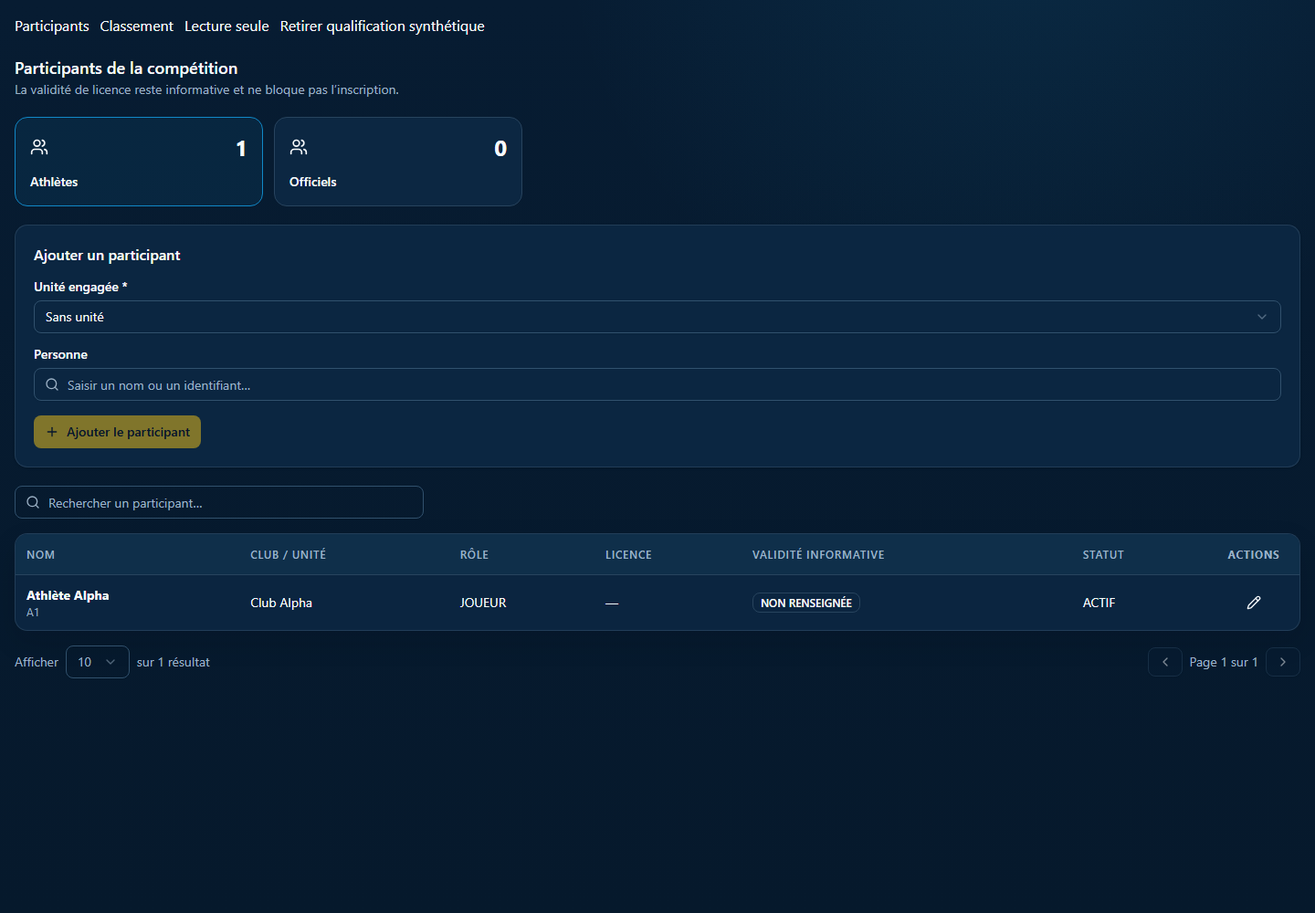
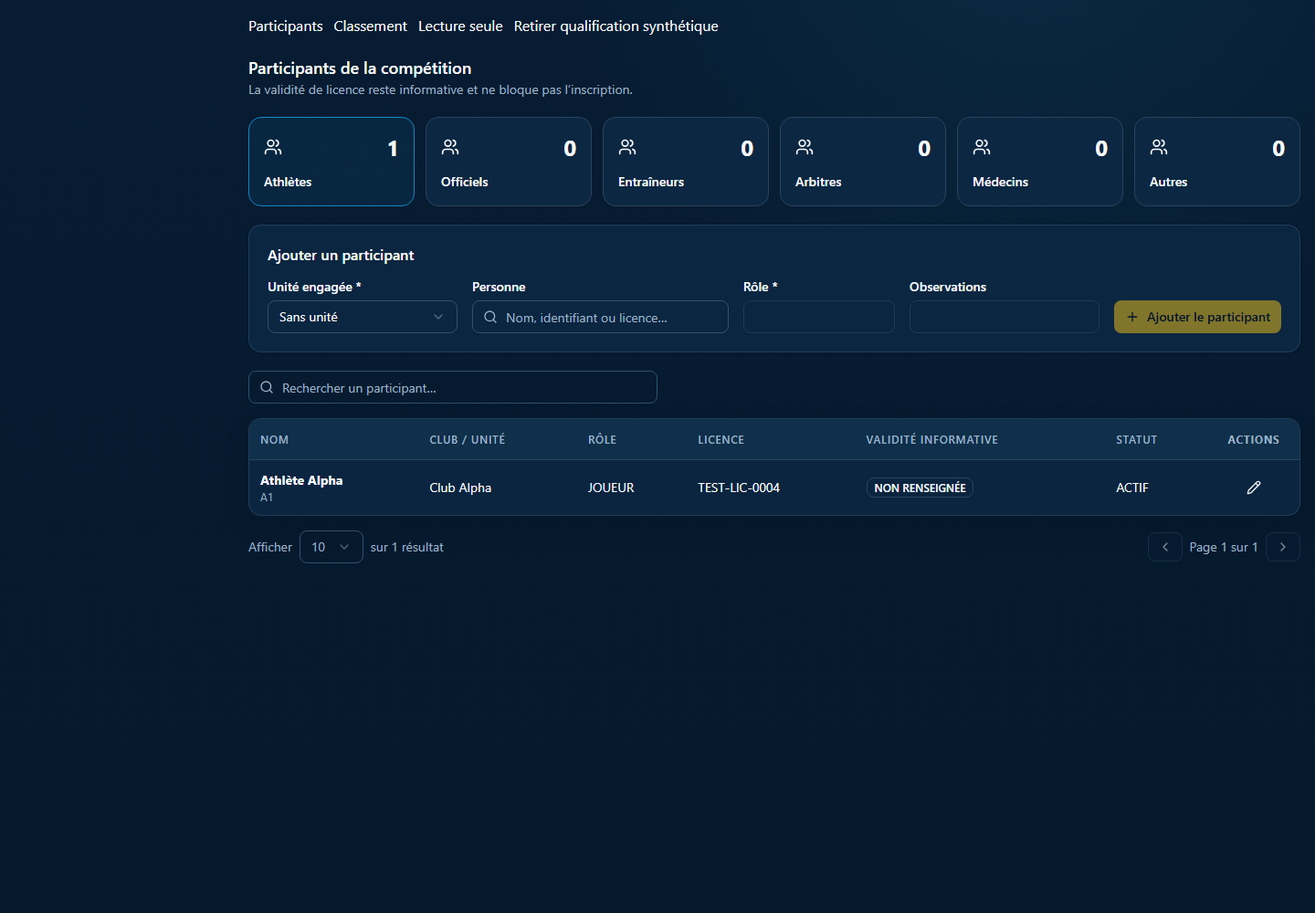
fix: resolve competition athletes from active affiliations

diff --git a/components/competitions/competition-people-manager.tsx b/components/competitions/competition-people-manager.tsx
@@ -25,7 +25,7 @@ export function CompetitionPeopleManager({ competitionId, closed, unitLabels, op
   const selected = actors.get(typeId+":"+(form.id_acteur || "")), athlete = /ATHLETE|JOUEUR/.test((types.find(item=>item.id===typeId)?.label || "").normalize("NFD").replace(/[\u0300-\u036f]/g,"").toUpperCase())
   const rows: Person[] = records.filter(row => clean(row.id_type_acteur) === typeId).map(row => {const actor=actors.get(typeId+":"+clean(row.id_acteur));return {id:clean(row.id_intervenant_competition),actorId:clean(row.id_acteur),typeId,name:actor?.label || clean(row.id_acteur),role:clean(row.role_participant),unitId:clean(row.id_unite_competition),unit:unitLabels[clean(row.id_unite_competition)] || "Sans unité",licence:actor?.licenceNumber || "Non renseignée",validity:actor?.licenceStatus || "À vérifier",observations:clean(row.observations),status:clean(row.statut)}})
   const candidates = options.filter(item => item.typeId === typeId && (!athlete || units.some(unit => clean(unit.statut)==="ACTIF" && (clean(unit.id_type_unite_competition)==="TUC005" || clean(unit.id_type_unite_competition)==="TUC004" && clean(unit.id_club)===item.clubId) && (!form.id_unite_competition || clean(unit.id_unite_competition)===form.id_unite_competition))) && !records.some(row => clean(row.id_intervenant_competition)!==editing && clean(row.id_type_acteur)===typeId && clean(row.id_acteur)===item.id && clean(row.id_unite_competition)===(form.id_unite_competition || "") && clean(row.statut)==="ACTIF"))
-  const matches = query.trim() ? candidates.filter(item => (item.label+" "+item.id).toLocaleLowerCase("fr").includes(query.trim().toLocaleLowerCase("fr"))).slice(0,20) : []
+  const matches = query.trim() ? candidates.filter(item => (item.label+" "+item.id+" "+item.licenceNumber).toLocaleLowerCase("fr").includes(query.trim().toLocaleLowerCase("fr"))).slice(0,20) : []
   const reset = () => {setForm({});setEditing("");setQuery("");setErrors({});setMessage("")}
   const selectType = (id:string) => {if(pending)return;setTypeId(id);reset()}
   const edit = (row:Person) => {setEditing(row.id);setForm({id_acteur:row.actorId,id_unite_competition:row.unitId,role_participant:row.role,observations:row.observations});setQuery(row.name);setErrors({});setMessage("")}
@@ -35,11 +35,18 @@ export function CompetitionPeopleManager({ competitionId, closed, unitLabels, op
   }
   const choiceUnits=units.filter(unit=>clean(unit.statut)==="ACTIF" || editing && clean(unit.id_unite_competition)===form.id_unite_competition)
   return <section className="space-y-5" aria-label="Participants de la compétition"><div><h2 className="text-lg font-semibold">Participants de la compétition</h2><p className="text-sm text-muted-foreground">La validité de licence reste informative et ne bloque pas l’inscription.</p></div>{error && <p role="alert" className="rounded-lg border border-destructive/30 p-3 text-destructive">{error}</p>}
-    <div className="grid grid-cols-2 gap-3 sm:grid-cols-3 xl:grid-cols-5">{types.map(type=><button key={type.id} type="button" disabled={pending} onClick={()=>selectType(type.id)} className={'rounded-xl border p-4 text-left '+(typeId===type.id?'border-primary bg-primary/10':'bg-card hover:bg-muted/50')}><div className="flex items-center justify-between"><Users className="size-5"/><span className="text-2xl font-bold">{records.filter(row=>clean(row.id_type_acteur)===type.id).length}</span></div><p className="mt-3 text-sm font-medium">{type.label}</p></button>)}</div>
-    {!closed && !error && <Card className="py-5 shadow-sm"><CardContent className="space-y-4 px-5"><h3 className="font-semibold">{editing?'Modifier un participant':'Ajouter un participant'}</h3><form onSubmit={submit} className="space-y-4"><fieldset disabled={pending} className="space-y-4"><div className="space-y-2"><Label htmlFor="person-unit">Unité engagée{athlete?' *':' (facultatif)'}</Label><Select value={form.id_unite_competition || '__none'} onValueChange={value=>{setForm(current=>({...current,id_unite_competition:value==='__none'?'':value,...(!editing?{id_acteur:''}:{})}));if(!editing)setQuery('')}}><SelectTrigger id="person-unit" className="w-full"><SelectValue placeholder="Choisir une unité"/></SelectTrigger><SelectContent><SelectItem value="__none">Sans unité</SelectItem>{choiceUnits.map(unit=><SelectItem key={clean(unit.id_unite_competition)} value={clean(unit.id_unite_competition)}>{unitLabels[clean(unit.id_unite_competition)] || clean(unit.id_unite_competition)}</SelectItem>)}</SelectContent></Select>{errors.id_unite_competition && <p className="text-sm text-destructive">{errors.id_unite_competition}</p>}</div>
-      <div className="space-y-2"><Label htmlFor="person-search">Personne</Label><div className="relative"><Search className="absolute left-3 top-2.5 size-4 text-muted-foreground"/><Input id="person-search" value={query} disabled={Boolean(editing)} className="pl-9" placeholder="Saisir un nom ou un identifiant…" onChange={event=>{setQuery(event.target.value);setForm(current=>({...current,id_acteur:''}))}}/></div>{query && !selected && <div className="max-h-64 overflow-y-auto rounded-lg border">{matches.length?matches.map(item=><button key={item.typeId+':'+item.id} type="button" onClick={()=>{setForm(current=>({...current,id_acteur:item.id,role_participant:current.role_participant || (/AUTRE/i.test(item.typeLabel)?"":item.typeLabel)}));setQuery(item.label)}} className="flex w-full items-center gap-3 border-b p-3 text-left hover:bg-muted/50"><span className="grid size-9 place-items-center rounded-full bg-primary/10 text-xs font-bold">{item.label.slice(0,2).toUpperCase()}</span><span><strong className="block text-sm">{item.label}</strong><small>{item.id}</small></span></button>):<p className="p-4 text-sm text-muted-foreground">Aucune personne disponible pour cette unité et cette catégorie.</p>}</div>}</div>
-      {selected && <><div className="space-y-2 rounded-lg border border-primary/30 bg-primary/5 p-3"><strong>{selected.label}</strong><p className="text-xs">{selected.id}</p><div className="flex flex-wrap gap-3 text-sm"><span>Licence : {selected.licenceNumber}</span><Badge variant="outline">{selected.licenceStatus}</Badge></div><p className="text-xs text-muted-foreground">Une licence absente ou à vérifier n’empêche pas l’ajout.</p></div><div className="space-y-2"><Label htmlFor="person-role">Rôle dans la compétition *</Label><Input id="person-role" required value={form.role_participant || ''} onChange={event=>setForm(current=>({...current,role_participant:event.target.value}))}/>{errors.role_participant && <p className="text-sm text-destructive">{errors.role_participant}</p>}</div><div className="space-y-2"><Label htmlFor="person-notes">Observations</Label><Input id="person-notes" value={form.observations || ''} onChange={event=>setForm(current=>({...current,observations:event.target.value}))}/></div></>}
-      </fieldset>{message && <p role="alert" className="text-sm text-destructive">{message}</p>}<div className="flex flex-wrap gap-2"><Button disabled={pending || !selected || !form.role_participant || athlete && !form.id_unite_competition} className="bg-brand-gold text-slate-950 hover:bg-brand-gold/90"><Plus className="size-4"/>{pending?'Enregistrement…':editing?'Enregistrer les modifications':'Ajouter le participant'}</Button>{editing && <Button type="button" variant="outline" disabled={pending} onClick={reset}>Annuler</Button>}</div></form></CardContent></Card>}
+    <div className="grid grid-cols-2 gap-3 sm:grid-cols-3 lg:grid-flow-col lg:auto-cols-fr lg:grid-cols-none">{types.map(type=><button key={type.id} type="button" disabled={pending} onClick={()=>selectType(type.id)} className={'rounded-xl border p-4 text-left '+(typeId===type.id?'border-primary bg-primary/10':'bg-card hover:bg-muted/50')}><div className="flex items-center justify-between"><Users className="size-5"/><span className="text-2xl font-bold">{records.filter(row=>clean(row.id_type_acteur)===type.id).length}</span></div><p className="mt-3 text-sm font-medium">{type.label}</p></button>)}</div>
+    {!closed && !error && <Card className="py-5 shadow-sm"><CardContent className="space-y-4 px-5"><h3 className="font-semibold">{editing?'Modifier un participant':'Ajouter un participant'}</h3><form onSubmit={submit} className="space-y-4">
+      <fieldset disabled={pending} className="grid items-end gap-4 sm:grid-cols-2 lg:grid-cols-[minmax(0,1fr)_minmax(0,1.35fr)_minmax(0,.8fr)_minmax(0,1fr)_auto]" aria-label="Champs d’ajout du participant">
+        <div className="min-w-0 space-y-2"><Label htmlFor="person-unit">Unité engagée{athlete?' *':' (facultatif)'}</Label><div className="min-w-0"><Select value={form.id_unite_competition || '__none'} onValueChange={value=>{setForm(current=>({...current,id_unite_competition:value==='__none'?'':value,...(!editing?{id_acteur:''}:{})}));if(!editing)setQuery('')}}><SelectTrigger id="person-unit" className="w-full min-w-0"><SelectValue placeholder="Choisir une unité"/></SelectTrigger><SelectContent><SelectItem value="__none">Sans unité</SelectItem>{choiceUnits.map(unit=><SelectItem key={clean(unit.id_unite_competition)} value={clean(unit.id_unite_competition)}>{unitLabels[clean(unit.id_unite_competition)] || clean(unit.id_unite_competition)}</SelectItem>)}</SelectContent></Select></div></div>
+        <div className="relative min-w-0 space-y-2"><Label htmlFor="person-search">Personne</Label><div className="relative"><Search className="absolute left-3 top-2.5 size-4 text-muted-foreground"/><Input id="person-search" value={query} disabled={Boolean(editing)} className="pl-9" placeholder="Nom, identifiant ou licence…" onChange={event=>{setQuery(event.target.value);setForm(current=>({...current,id_acteur:''}))}}/></div>{query && !selected && <div className="absolute inset-x-0 top-full z-20 mt-1 max-h-64 overflow-y-auto rounded-lg border bg-popover shadow-md">{matches.length?matches.map(item=><button key={item.typeId+':'+item.id} type="button" onClick={()=>{setForm(current=>({...current,id_acteur:item.id,role_participant:current.role_participant || (/AUTRE/i.test(item.typeLabel)?'':item.typeLabel)}));setQuery(item.label)}} className="flex w-full items-center gap-3 border-b p-3 text-left hover:bg-muted/50"><span className="grid size-9 shrink-0 place-items-center rounded-full bg-primary/10 text-xs font-bold">{item.label.slice(0,2).toUpperCase()}</span><span className="min-w-0"><strong className="block break-words text-sm">{item.label}</strong><small>{item.id}</small></span></button>):<p className="p-4 text-sm text-muted-foreground">Aucune personne disponible pour cette unité et cette catégorie.</p>}</div>}</div>
+        <div className="min-w-0 space-y-2"><Label htmlFor="person-role">Rôle *</Label><Input id="person-role" aria-label="Rôle dans la compétition *" required disabled={!selected} value={form.role_participant || ''} onChange={event=>setForm(current=>({...current,role_participant:event.target.value}))}/></div>
+        <div className="min-w-0 space-y-2"><Label htmlFor="person-notes">Observations</Label><Input id="person-notes" disabled={!selected} value={form.observations || ''} onChange={event=>setForm(current=>({...current,observations:event.target.value}))}/></div>
+        <div className="flex flex-wrap gap-2"><Button type="submit" disabled={!selected || !form.role_participant || athlete && !form.id_unite_competition} className="bg-brand-gold text-slate-950 hover:bg-brand-gold/90"><Plus className="size-4"/>{pending?'Enregistrement…':editing?'Enregistrer les modifications':'Ajouter le participant'}</Button>{editing && <Button type="button" variant="outline" onClick={reset}>Annuler</Button>}</div>
+      </fieldset>
+      {errors.id_unite_competition && <p className="text-sm text-destructive">{errors.id_unite_competition}</p>}{errors.role_participant && <p className="text-sm text-destructive">{errors.role_participant}</p>}{message && <p role="alert" className="text-sm text-destructive">{message}</p>}
+      {selected && <div className="flex flex-wrap items-center gap-x-5 gap-y-2 rounded-lg border border-primary/30 bg-primary/5 p-3 text-sm"><strong>{selected.label}</strong><span className="text-xs">{selected.id}</span><span>Licence : {selected.licenceNumber}</span><Badge variant="outline">{selected.licenceStatus}</Badge><p className="text-xs text-muted-foreground">La validité de licence reste informative.</p></div>}
+    </form></CardContent></Card>}
     <DataTable key={typeId} data={rows} columns={columns} idKey="id" searchPlaceholder="Rechercher un participant…" renderActions={closed || error ? undefined : row=><Button size="icon-sm" variant="ghost" disabled={pending || !actors.has(row.typeId+":"+row.actorId)} aria-label={'Modifier '+row.name} onClick={()=>edit(row)}><Pencil/></Button>} renderMobileCard={row=><article className="space-y-2 rounded-lg border p-4"><strong>{row.name}</strong><p className="text-xs">{row.actorId}</p><p className="text-sm">{row.unit} · {row.role}</p><p className="text-sm">{row.licence} · {row.validity}</p>{!closed && !error && <Button variant="outline" disabled={pending || !actors.has(row.typeId+":"+row.actorId)} onClick={()=>edit(row)}>Modifier {row.name}</Button>}</article>}/>
   </section>
 }

diff --git a/lib/competition-people.ts b/lib/competition-people.ts
@@ -5,6 +5,7 @@ import { appendSheetRecord, updateSheetRecordById, getSheetDataFrom } from "@/li
 import { competitionData, loadCompetitionBundle, type CompetitionBundle } from "@/lib/competitions-v2"
 import { CompetitionDomainError } from "@/lib/competition-structure"
 import { formatDateForSheet } from "@/lib/compact-date"
+import { competitionAthleteClubs, competitionAffiliationDate } from "@/lib/competition-person-affiliations"
 import type { BaseActorLicence } from "@/lib/types"
 
 const clean = (value: unknown) => String(value ?? "").trim()
@@ -22,14 +23,15 @@ function currentLicence(licences: BaseActorLicence[], actorId: string, start: st
   return { licenceNumber: licence.numeroLicence || "—", licenceStatus: valid ? "VALIDE" : "À VÉRIFIER" }
 }
 
-export async function competitionPeopleOptions(competitionId: string, loadedBundle?: CompetitionBundle) {
+export async function competitionPeopleOptions(competitionId: string, loadedBundle?: CompetitionBundle, readOptions: { fresh?: boolean } = {}) {
   const bundle = loadedBundle ?? await loadCompetitionBundle(), competition = bundle.competitions.find((item) => item.id === competitionId)
   if (!competition) return []
-  const [athletes, coaches, referees, officials, doctors, athleteLicences, coachLicences, refereeLicences, officialLicences, doctorLicences, otherRows] = await Promise.all([getAthletes(), getCoachs(), getArbitres(), getOfficiels(), getMedecins(), getAthleteLicences(), getCoachLicences(), getArbitreLicences(), getOfficielLicences(), getMedecinLicences(), (bundle.references.TYPES_ACTEURS || []).some(item => normalized(item.label).includes("AUTRE")) ? getSheetDataFrom(env.googleSheets.acteursSpreadsheetId, "AUTRES!A:Z") : Promise.resolve([])])
+  const [athletes, coaches, referees, officials, doctors, athleteLicences, coachLicences, refereeLicences, officialLicences, doctorLicences, otherRows, athleteAffiliations] = await Promise.all([getAthletes(), getCoachs(), getArbitres(), getOfficiels(), getMedecins(), getAthleteLicences(), getCoachLicences(), getArbitreLicences(), getOfficielLicences(), getMedecinLicences(), (bundle.references.TYPES_ACTEURS || []).some(item => normalized(item.label).includes("AUTRE")) ? getSheetDataFrom(env.googleSheets.acteursSpreadsheetId, "AUTRES!A:Z") : Promise.resolve([]), getSheetDataFrom(env.googleSheets.affiliationsSpreadsheetId, "ATHLETE_AFFILIATIONS!A:ZZ", readOptions)])
+  const athleteClubs = competitionAthleteClubs(athleteAffiliations, competitionAffiliationDate())
   const types = bundle.references.TYPES_ACTEURS ?? []
   const type = (terms: string[]) => types.find((item) => terms.some((term) => normalized(item.label).includes(term)))
   const groups: Array<{ ref?: { id: string; label: string }; actors: Array<{ id: string; name: string; clubId?: string }>; licences: BaseActorLicence[] }> = [
-    { ref: type(["ATHLETE", "JOUEUR"]), actors: athletes.map((item) => ({ id: item.idAthlete, name: item.nomComplet, clubId: item.clubId })), licences: athleteLicences },
+    { ref: type(["ATHLETE", "JOUEUR"]), actors: athletes.map((item) => ({ id: item.idAthlete, name: item.nomComplet, clubId: athleteClubs.get(item.idAthlete) || "" })), licences: athleteLicences },
     { ref: type(["COACH", "ENTRAINEUR"]), actors: coaches.map((item) => ({ id: item.idCoach, name: item.nomComplet })), licences: coachLicences },
     { ref: type(["ARBITRE"]), actors: referees.map((item) => ({ id: item.idArbitre, name: item.nomComplet })), licences: refereeLicences },
     { ref: type(["OFFICIEL"]), actors: officials.map((item) => ({ id: item.idOfficiel, name: item.nomComplet })), licences: officialLicences },
@@ -46,7 +48,7 @@ export async function addCompetitionPerson(competitionId: string, input: Record<
   if (detail.competition.statut === "TERMINEE") throw new CompetitionDomainError("Cette compétition est clôturée.", 409)
   const current = currentId ? detail.intervenants.find(row => clean(row.id_intervenant_competition) === currentId) : undefined
   if (currentId && !current) throw new CompetitionDomainError("Participant introuvable dans cette compétition.", 404)
-  const options = await competitionPeopleOptions(competitionId, bundle)
+  const options = await competitionPeopleOptions(competitionId, bundle, { fresh: true })
   const actorId = clean(input.id_acteur), typeId = clean(input.id_type_acteur), unitId = clean(input.id_unite_competition), clubId = clean(input.id_club), role = clean(input.role_participant), observations = clean(input.observations)
   const actor = options.find((item) => item.id === actorId && item.typeId === typeId)
   if (!actor) throw new CompetitionDomainError("Acteur ou type d’acteur invalide.", 400)

diff --git a/lib/competition-person-affiliations.test.ts b/lib/competition-person-affiliations.test.ts
@@ -1,0 +1,24 @@
+import test from "node:test"
+import assert from "node:assert/strict"
+// @ts-expect-error Explicit extension required by the Node test runner.
+import { competitionAthleteClubs } from "./competition-person-affiliations.ts"
+const row = { id_athlete: "A1", id_club: "0101086", id_statut_affiliation: "SAF001", date_debut: "2025-01-01", date_fin: "" }
+test("le club vient de l’affiliation datée et conserve ses zéros", () => {
+  assert.equal(competitionAthleteClubs([row], "2026-11-05").get("A1"), "0101086")
+})
+test("bornes inclusives, dates françaises et fin ouverte", () => {
+  const bounded = { ...row, date_debut: "01/11/2026", date_fin: "05/11/2026" }
+  assert.equal(competitionAthleteClubs([bounded], "2026-11-01").get("A1"), "0101086")
+  assert.equal(competitionAthleteClubs([bounded], "2026-11-05").get("A1"), "0101086")
+  assert.equal(competitionAthleteClubs([bounded], "2026-11-06").has("A1"), false)
+})
+test("future, suspendue, terminée, annulée et date invalide ne donnent pas de club courant", () => {
+  for (const invalid of [{ ...row, date_debut: "2027-01-01" }, ...["SAF002", "SAF003", "SAF004"].map(id_statut_affiliation => ({ ...row, id_statut_affiliation })), { ...row, date_debut: "31/02/2026" }, { ...row, date_debut: "" }, { ...row, date_fin: "2024-01-01" }]) assert.equal(competitionAthleteClubs([invalid], "2026-11-05").has("A1"), false)
+})
+test("transfert futur et rattachement multiple ne choisissent pas arbitrairement un club", () => {
+  const old = { ...row, date_fin: "2026-11-05" }, next = { ...row, id_club: "0101002", date_debut: "2026-11-06" }
+  assert.equal(competitionAthleteClubs([old, next], "2026-11-05").get("A1"), "0101086")
+  assert.equal(competitionAthleteClubs([old, next], "2026-11-06").get("A1"), "0101002")
+  assert.equal(competitionAthleteClubs([row, { ...row, id_club: "0101002" }], "2026-11-05").has("A1"), false)
+  assert.equal(competitionAthleteClubs([row, row], "2026-11-05").get("A1"), "0101086")
+})

diff --git a/lib/competition-person-affiliations.ts b/lib/competition-person-affiliations.ts
@@ -1,0 +1,22 @@
+import type { SheetRow } from "./google-sheets"
+// @ts-expect-error Explicit extension required by the Node test runner.
+import { formatDateForSheet } from "./compact-date.ts"
+
+const text = (value: unknown) => String(value ?? "").trim()
+export const competitionAffiliationDate = () => new Intl.DateTimeFormat("en-CA", { timeZone: "Africa/Kinshasa", year: "numeric", month: "2-digit", day: "2-digit" }).format(new Date())
+// Athlete profiles contain identity only. The current club is an affiliation, never a licence prefix.
+export function competitionAthleteClubs(rows: SheetRow[], today: string): Map<string, string> {
+  const clubs = new Map<string, Set<string>>()
+  for (const row of rows) {
+    if (text(row.id_statut_affiliation) !== "SAF001") continue
+    const actorId = text(row.id_athlete), clubId = text(row.id_club)
+    if (!actorId || !clubId) continue
+    try {
+      const start = formatDateForSheet(text(row.date_debut)), end = formatDateForSheet(text(row.date_fin))
+      if (!start || start > today || end && (end < today || end < start)) continue
+      if (!clubs.has(actorId)) clubs.set(actorId, new Set())
+      clubs.get(actorId)!.add(clubId)
+    } catch { /* An invalid date cannot establish eligibility for an engaged club. */ }
+  }
+  return new Map([...clubs].filter(([, ids]) => ids.size === 1).map(([id, ids]) => [id, [...ids][0]]))
+}

diff --git a/docs/correction-participants-affiliations-ligne-2026-11-05.md b/docs/correction-participants-affiliations-ligne-2026-11-05.md
@@ -1,0 +1,36 @@
+# Participants : rattachement réel et formulaire sur une ligne
+
+Référence : `24796dc` sur `feature/competitions-fevoco`. Cible unique vérifiée : `C:/Projets/SNDS-RDC/data/monosport/fevoco-managment`. Instructions AGENTS et CONTEXT relus. Travaux locaux transferts/licences conservés ; aucun autre dépôt modifié, aucune écriture Google, aucun commit/push/déploiement pour ce correctif.
+
+## Défaut confirmé
+
+`competitionPeopleOptions` utilisait `getAthletes().clubId`. Or `getAthletes` mappe la feuille ATHLETES, dont le schéma réel contient l'identité, sans `id_club`. Le rattachement est stocké dans ATHLETE_AFFILIATIONS. Le filtre des candidats et la validation serveur comparaient donc le club engagé à une chaîne vide, même lorsque l'affiliation était valide.
+
+Les tests du lot précédent fournissaient artificiellement `clubId` dans les fixtures du lecteur d'athlètes : ils ne reproduisaient pas ce contrat réel. La fixture est maintenant sans ce champ et contient une feuille d'affiliations séparée. Avant correction, le scénario d'ajout valide reproduit **422 au lieu de 201** ; après correction, ajout et modification passent. Il s'agit d'une erreur de raccordement du lot précédent, pas d'une absence d'affiliation à corriger dans Sheets.
+
+Lecture ciblée du cas signalé : la licence fournie permet de retrouver un acteur existant ; son affiliation est active et l'unité de son club est engagée dans la compétition. Cet acteur n'était pas déjà inscrit comme intervenant. Aucun identifiant personnel, numéro de licence réel ou nom de personne n'est copié dans les fixtures ou captures. Sources vérifiées en lecture seule après métadonnées/en-têtes : [Acteurs](https://docs.google.com/spreadsheets/d/1CdtZDlfEAlxBeC0XkwiH_OayXajBUN_N05TQuAJvbZI/edit), [Affiliations](https://docs.google.com/spreadsheets/d/1ibsyycExJF5IMlNlWKzkTwX5ug13nnwgUhCYHd6lTMs/edit), [Licences](https://docs.google.com/spreadsheets/d/1vPsu-Vog5d4CK_f7BK4e4BaU72QTQwz-jPypE22iUYo/edit), [Compétitions](https://docs.google.com/spreadsheets/d/1QFXJjd6MsNXcc4AnIcUmNur3Bz4gPtWe0s6sFSSpd14/edit), [Structure](https://docs.google.com/spreadsheets/d/1NP19RMt5huJU57vK8hGmTrwsCWvpeQRETndwTfWO7Ro/edit).
+
+## Corrections
+
+- `lib/competition-person-affiliations.ts` : index par athlète des clubs courants depuis ATHLETE_AFFILIATIONS, statut SAF001 et dates inclusives au jour civil Africa/Kinshasa. Dates françaises/ISO canonicalisées ; historique terminé, suspension, annulation, période future/invalide ou plusieurs clubs concurrents ne deviennent pas un club courant. Les zéros initiaux restent des chaînes. Aucun club n'est déduit du préfixe d'une licence ni de l'identité brute.
+- `lib/competition-people.ts` : les options exposent ce club réel ; la mutation recharge les affiliations sans cache avant sa validation. La lecture GET réutilise exactement `ATHLETE_AFFILIATIONS!A:ZZ`, déjà demandée par le lecteur des licences, pour partager cache et requête identique en cours. Une seule collection est lue/indexée, aucune lecture par personne/unité. Pas de dépendance aux nouveaux modules sportifs non publiés et aucune modification de leurs invalidations.
+- `competition-people-manager.tsx` : catégories sur une même ligne dès 1024 px, champs Unité / Personne / Rôle / Observations / Actions sur une même ligne, aperçu de licence sous le formulaire. À plus petite largeur, champs/cartes répartis sans débordement. Résultats de recherche en liste flottante, et recherche par nom, identifiant **ou numéro de licence**. Permissions, clôture, contrôles de doublon, paires et caractère informatif de la licence conservés.
+
+## Validation
+
+- `competition-person-affiliations.test.ts` : 4 tests, club depuis l'affiliation, zéros initiaux, bornes inclusives, dates françaises, périodes invalides/futures, états non actifs, transfert futur et ambiguïté entre clubs.
+- `competition-people-harmonisation.test.cjs` : 6 tests des vrais services/routes avec sources simulées, dont le contrat réel sans club dans la fiche et l'absence de contournement par un club de profil périmé ou un numéro de licence. Création/modification, doublons, mauvais club/unité, paires protégées, clôture et pannes conservés.
+- Non-régression `competition-cards`, `competition-context-rules`, `competition-entry-edit` : 21 tests supplémentaires. Total ciblé : **31 tests réussis**.
+- Le banc `verify-competition-people-standings-ui.cjs` utilise six catégories et une licence synthétique recherchable. Les assertions mesurent les positions des six cartes et des cinq champs/actions sur ordinateur ; il simule une largeur réservée à la navigation. Ajout, modification, refus 403, lecture seule, classement et qualifications restent exercés. Aucun GET de données lors des recherches ; seules les trois soumissions simulées du scénario sont interceptées. Preuves sous `docs/performance/competition-people-standings-2026-11-05/`.
+- Le premier contrôle d'alignement échouait avec le CSS de production du build antérieur : les nouvelles classes n'y figuraient pas. Le build normal a été relancé avant la vérification finale ; aucun résultat rouge du banc n'est présenté comme un succès.
+- TypeScript indépendant avec cache isolé et lint complet exécutés ; résultats finaux consolidés ci-dessous. Build normal `npm run build` réussi, 27 pages générées ; configuration `ignoreBuildErrors` préexistante inchangée. Aucun essai d'ajout réel de l'athlète dans Google et aucune session authentifiée de production utilisée pour les tests de mutation.
+
+## Fichiers et retour arrière
+
+Résultat final navigateur : **PASS** à 1440×1000, 1024×900 avec largeur réservée à la navigation, et 390×844. Les assertions portent sur les positions réelles des cinq contrôles/actions, pas seulement leurs conteneurs, et sur les six cartes de catégories. Zéro erreur JavaScript et aucun débordement global. Captures ordinateur/portable/mobile inspectées. Un titre de rôle compact et une enveloppe du Select corrigent aussi l'alignement des contrôles à largeur réduite. Build final réussi. Le lint ciblé a révélé quatre globals Web Request/Response non déclarés dans le banc CommonJS ; leur déclaration a été corrigée, sans changer le comportement des tests.
+
+Contrôles finaux : lint ciblé sans erreur, TypeScript indépendant réussi et diff-check réussi. Le cache de vérification a été supprimé ; les imports de développement de `next-env.d.ts` antérieurs au build sont préservés, ainsi que `tsconfig.json`. Aucun changement dans les fichiers de transferts/licences existants.
+
+Adaptés : `lib/competition-people.ts`, `lib/competition-people-harmonisation.test.cjs`, `components/competitions/competition-people-manager.tsx`, `scripts/verify-competition-people-standings-ui.cjs`, les preuves et ce rapport. Nouveaux : `lib/competition-person-affiliations.ts` et son test. Aucun changement du référentiel, du lecteur global d'athlètes ou de l'ajout d'unités.
+
+Retour arrière ciblé : retirer uniquement le raccordement à l'index d'affiliations, la recherche par licence et les classes/disposition de ce formulaire, sans restaurer intégralement les fichiers partagés. Cette restauration réintroduirait le défaut de rattachement et n'est donc pas une réparation des données. Aucun rollback Sheets nécessaire. Le prochain push nécessite une nouvelle instruction de l'utilisateur.
